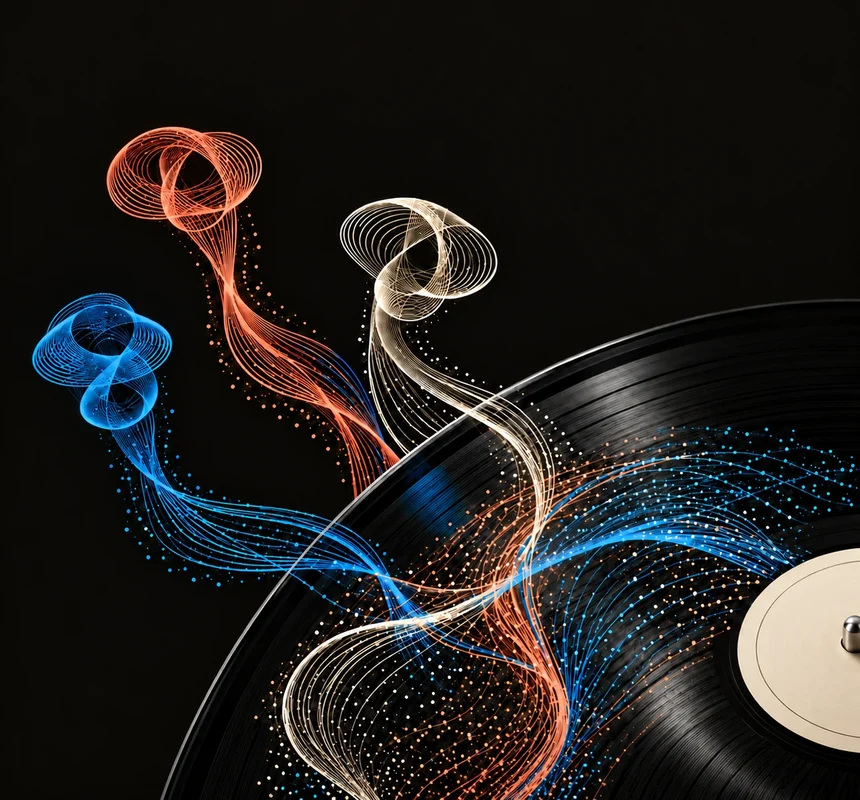
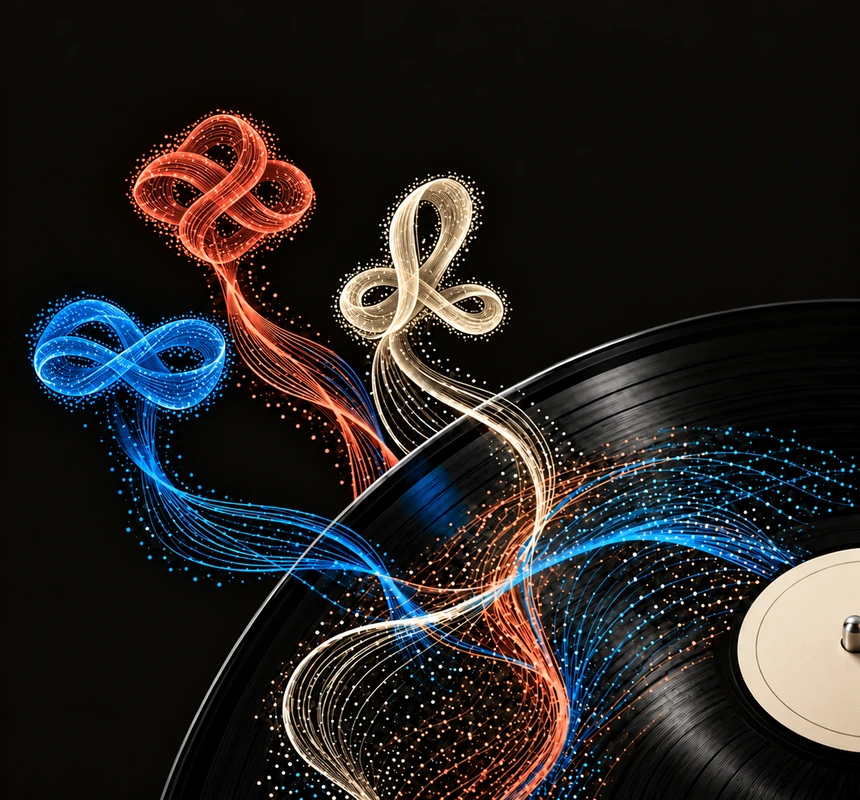
Apply supplied participant identicons and regenerate Home hero

diff --git a/src/App.jsx b/src/App.jsx
@@ -3,7 +3,7 @@ import React, { useEffect, useLayoutEffect, useMemo, useRef, useState } from 're
 import {demoScenario,demoStorageKey,demoProfile} from './demoSession.js'
 import VoicePreferenceChoices, {preferenceValues} from './VoicePreferenceChoices.jsx'
 import Icon from './Icons.jsx'
-import {HomeView,PartModules,MonitoringModule,MyVoiceIcon,SongArtwork,TurntableFrame,recruitmentPreviewLayers} from './IntegratedViews.jsx'
+import {HomeView,PartModules,MonitoringModule,ParticipantKnot,MyVoiceIcon,SongArtwork,TurntableFrame,recruitmentPreviewLayers} from './IntegratedViews.jsx'
 import {discoveryProjects,matchesGenre} from './discovery.js'
 import {PUBLIC_COMPLETIONS,publicResultIdFromNavigation} from './publicCompletions.js'
 import { PITCH_ANALYSIS_VERSION } from './pitch.js'
@@ -1374,7 +1374,7 @@ function Recorder({ go, submit, onRecordingStart, partId, projectTracks, layers,
       <span className="recording-clock" data-state={status} data-recording-entry>{currentPart.name} 녹음 · {status==='recording'?'REC':status==='paused'?'PAUSED':status==='review'?'REVIEW':'READY'} · {fmt(seconds)}{entryPrompt&&` · ${entryPrompt}`}</span>
       <section className="guide-panel v2-monitoring" aria-label="듣기 전용 Guide">
         <div className="v2-monitoring-row"><MonitoringModule guide title="Guide" role="반주" checked={guides.backing} onChange={e=>setGuides({...guides,backing:e.target.checked})}/>
-        {guideTracks.map(track=>{const part=parts.find(item=>item.id===track.partId),index=parts.findIndex(item=>item.id===track.partId);return <MonitoringModule key={track.id} title={track.participant} role={part.name} color={part.color} checked={Boolean(guides.parts[index])} onChange={e=>{const nextParts=[...guides.parts];nextParts[index]=e.target.checked;setGuides({...guides,parts:nextParts})}}/>})}</div>
+        {guideTracks.map(track=>{const part=parts.find(item=>item.id===track.partId),index=parts.findIndex(item=>item.id===track.partId);return <MonitoringModule key={track.id} title={track.participant} participantId={track.participantId} role={part.name} color={part.color} checked={Boolean(guides.parts[index])} onChange={e=>{const nextParts=[...guides.parts];nextParts[index]=e.target.checked;setGuides({...guides,parts:nextParts})}}/>})}</div>
         <p className="guide-device-note">Guide는 듣기용입니다. 이어폰을 사용하면 내 입력만 선명하게 녹음할 수 있어요.</p>
       </section>
       <div className="recording-visual"><ResonanceRecord recordRef={project.voiceRecordRef} parts={parts} tracks={finalTracks} projectId={project.id} layers={status==='review'?reviewLayers:finalLayers} activePartIndex={currentIndex} state={status === 'recording' ? 'recording' : status==='paused'?'paused':'rest'} level={level} seed={project.seed} compact /><RecordingInflow active={status==='recording'} partIndex={0} level={level} seed={project.seed} waveformRef={waveformRef}/></div>
@@ -1463,7 +1463,7 @@ function CurrentMixPanel({ parts, projectTracks, project, mix, mixStatus, retryA
   const chooseTrack=id=>{setPlaying(false);setSelectedTrackId(id);window.setTimeout(()=>setPlaying(true),0)}
   if(detailMode)return <section className="detail-listening" aria-label="현재 Mix와 Track">
     <div className="detail-mix"><p>현재 MIX 듣기</p><Player figma splitTimeline metalControl source={selectedTrack?.url||preview?.url} durationHint={selectedTrack?.duration||preview?.duration} playing={playing} setPlaying={setPlaying}/>{selectedTrack&&<span className="listening-context"><button className="detail-mix-return" onClick={()=>{setPlaying(false);setSelectedTrackId(null)}}>현재 Mix로</button></span>}{!trackArray.length&&<small>아직 제출된 녹음이 없어요.</small>}{trackArray.length>0&&!selectedTracks.length&&!selectedTrack&&<small>들을 트랙을 하나 이상 선택해 주세요.</small>}</div>
-    <div className="detail-people"><p>참여한 멤버 {rows.filter(part=>part.participant).length}명</p><div className="detail-member-list">{rows.filter(part=>part.participant).map(part=>{const index=parts.findIndex(p=>p.id===part.id);return <div key={part.id} className="detail-member" data-part={part.id}><button className="detail-member-name" disabled={!part.participantId||part.participantId===CURRENT_USER_ID} onClick={()=>openVocalProfile(part.participantId)}><span className="detail-member-mark" style={{color:part.color}}>{part.participant.slice(0,1)}</span><span><strong>{part.participant}</strong><small>{part.name}</small>{projectTracks[part.id]&&<small>{fmt(projectTracks[part.id].duration)}</small>}</span></button>{projectTracks[part.id]&&<div className="detail-member-controls"><button className="row-track-play" aria-label={`${part.name} 개별 듣기`} onClick={()=>chooseTrack(part.id)}><Icon name={selectedTrackId===part.id&&playing?'pause':'play'} size={12}/></button><button className={`include-toggle ${included.parts[index]?'on':''}`} aria-label={`${part.name} Mix 포함`} aria-pressed={included.parts[index]} onClick={()=>{setPlaying(false);setSelectedTrackId(null);setIncluded(value=>{const next=[...value.parts];next[index]=!next[index];return {...value,parts:next}})}}><span/></button></div>}</div>})}</div></div>
+    <div className="detail-people"><p>참여한 멤버 {rows.filter(part=>part.participant).length}명</p><div className="detail-member-list">{rows.filter(part=>part.participant).map(part=>{const index=parts.findIndex(p=>p.id===part.id);return <div key={part.id} className="detail-member" data-part={part.id}><button className="detail-member-name" disabled={!part.participantId||part.participantId===CURRENT_USER_ID} onClick={()=>openVocalProfile(part.participantId)}><span className="detail-member-mark" style={{color:part.color}}><ParticipantKnot participantId={part.participantId} name={part.participant}/></span><span><strong>{part.participant}</strong><small>{part.name}</small>{projectTracks[part.id]&&<small>{fmt(projectTracks[part.id].duration)}</small>}</span></button>{projectTracks[part.id]&&<div className="detail-member-controls"><button className="row-track-play" aria-label={`${part.name} 개별 듣기`} onClick={()=>chooseTrack(part.id)}><Icon name={selectedTrackId===part.id&&playing?'pause':'play'} size={12}/></button><button className={`include-toggle ${included.parts[index]?'on':''}`} aria-label={`${part.name} Mix 포함`} aria-pressed={included.parts[index]} onClick={()=>{setPlaying(false);setSelectedTrackId(null);setIncluded(value=>{const next=[...value.parts];next[index]=!next[index];return {...value,parts:next}})}}><span/></button></div>}</div>})}</div></div>
     <div className="detail-open-parts"><p>모집 중인 파트</p><div>{rows.filter(part=>!part.participant&&['open','recruiting','ready'].includes(part.status)).map(part=>{const action=partAction?.(part)||{};return <div data-part={part.id} key={part.id}><button className={`row-action ${action.label==='선택됨'?'active':''}`} disabled={!action.action} aria-pressed={action.label==='선택됨'} onClick={action.action}><Icon name="plus" size={12}/><span>{part.name}</span></button></div>})}</div></div>
     {previewError&&<p role="alert">{previewError}</p>}
   </section>

diff --git a/src/IntegratedViews.jsx b/src/IntegratedViews.jsx
@@ -2,6 +2,18 @@ import React, {useEffect,useLayoutEffect,useRef,useState} from 'react'
 import Icon from './Icons.jsx'
 import {songArtwork} from './songArtwork.js'
 
+// Approved Figma display artwork; never persisted as a measured Voice Identity.
+const participantKnots = {
+  yoonseul: '/artwork/identicon-blue.png',
+  doyoon: '/artwork/identicon-coral.png',
+  jisun: '/artwork/identicon-cream.png'
+}
+
+export function ParticipantKnot({participantId,name}) {
+  const src=participantKnots[participantId]
+  return src?<img className="v2-participant-knot" data-artwork-kind="supplied-identicon" src={src} width="128" height="128" alt=""/>:name?.slice(0,1)
+}
+
 export function MyVoiceIcon() {
   return <span className="v2-profile-icon" aria-hidden="true"><img src="/artwork/profile-knot.webp" alt="" width="26" height="26"/></span>
 }
@@ -63,7 +75,7 @@ export function PartModules({parts,projectTracks,included,onToggle,onPlay,onPart
   return <div className="v2-part-modules" aria-label="파트별 참여 상태와 듣기">{parts.map((part,index)=>{
     const track=projectTracks[part.id],own=part.participantId===currentUserId
     const action=partAction?.(part)||{}
-    const identity=<><span className="v2-voice-slot" style={{color:part.color}} aria-hidden="true">{part.participant?part.participant.slice(0,1):<Icon name="plus" size={22}/>}</span><span className="v2-part-name-role"><strong>{own?'내 파트':part.participant||'OPEN'}</strong><span className="v2-part-role">{part.name}</span></span></>
+    const identity=<><span className="v2-voice-slot" style={{color:part.color}} aria-hidden="true">{part.participant?<ParticipantKnot participantId={part.participantId} name={part.participant}/>:<Icon name="plus" size={22}/>}</span><span className="v2-part-name-role"><strong>{own?'내 파트':part.participant||'OPEN'}</strong><span className="v2-part-role">{part.name}</span></span></>
     return <section className="v2-part-module" key={part.id} data-part={part.id}>
       {part.participantId&&!own?<button className="v2-part-identity v2-part-person" onClick={()=>onParticipant(part.participantId)} aria-label={part.participant+' 보컬 프로필'}>{identity}</button>:<div className="v2-part-identity">{identity}</div>}
       <div className="v2-part-channel"><small>{track?'제출됨':own?(hasDraft?'임시 보관':'녹음 대기'):part.invitationStatus==='sent'?'초대 대기':part.participant?'Track 대기':'모집 중'}</small>
@@ -72,8 +84,8 @@ export function PartModules({parts,projectTracks,included,onToggle,onPlay,onPart
   })}</div>
 }
 
-export function MonitoringModule({title,role,checked,onChange,guide=false,color}) {
-  return <label className="v2-monitor-module"><span className="v2-monitor-symbol" style={{color}} aria-hidden="true">{guide?<img src="/artwork/guide-keyboard.svg" alt="" width="46" height="32"/>:title.slice(0,1)}</span><span>{title}</span><small>{role}</small><span className="v2-toggle"><input type="checkbox" aria-label={guide?'Guide 반주':`${title} · ${role} 함께 듣기`} checked={checked} onChange={onChange}/><i/></span></label>
+export function MonitoringModule({title,participantId,role,checked,onChange,guide=false,color}) {
+  return <label className="v2-monitor-module"><span className="v2-monitor-symbol" style={{color}} aria-hidden="true">{guide?<img src="/artwork/guide-keyboard.svg" alt="" width="46" height="32"/>:<ParticipantKnot participantId={participantId} name={title}/>}</span><span>{title}</span><small>{role}</small><span className="v2-toggle"><input type="checkbox" aria-label={guide?'Guide 반주':`${title} · ${role} 함께 듣기`} checked={checked} onChange={onChange}/><i/></span></label>
 }
 
 export function HomeView({header,entries,songs,renderRecord,openSong,openProject,openSearch,openCreateProject,formatDuration}) {

diff --git a/src/integration-v2.css b/src/integration-v2.css
@@ -44,6 +44,9 @@
 /* Constrain legacy screen rules to their old layout; V2 uses one explicit grid column. */
 .workspace-v2-screen .title-row{min-height:0!important}.workspace-v2-screen .title-row h1{max-width:none}
 .v2-voice-slot,.v2-monitor-symbol{font-family:var(--font-interface)}
+.v2-voice-slot .v2-participant-knot{display:block;width:72.444px;height:40px;object-fit:contain}
+.recording-v2-screen .v2-monitor-symbol .v2-participant-knot{width:53.333px;height:40px;object-fit:contain}
+.detail-v2-screen .detail-member-mark .v2-participant-knot{display:block;width:30px;height:30px;object-fit:contain}
 .recording-v2-screen .topbar{min-height:24px;height:24px;padding-top:0}
 .recording-v2-screen>main{grid-template-rows:auto auto 190px 42px 230px auto;min-height:calc(100dvh - 24px);width:100%;max-width:430px;padding-top:0!important}
 .recording-v2-screen>main>*{grid-column:1;min-width:0}

diff --git a/public/artwork/README.md b/public/artwork/README.md
@@ -22,7 +22,7 @@
 - `guide-keyboard.svg`: exact 46×32 export of Figma `1448:32057` in Recording Monitoring / Guide `1466:32188`. Decorative keyboard for the real backing toggle; no audio or profile data is substituted.
 - `figma-toggle-{on,off}.svg`: exact 46×26 exports of IEUM/Current/Toggle variants `1238:2667` / `1238:2668`. Recording monitoring displays them at the original instance scale (33.12×18.72); native controlled checkboxes and full-card click targets remain functional. Plugin API exports were used because the temporary asset URL returned HTML.
 
-- `home-hero.webp`: user-supplied text-free line/particle illustration (`세 빛깔 실매듭의 비닐 궤적(2).png`). Promotional Home art only; never replaces live project/recording visuals.
+- `home-hero.webp`: Home hero regenerated with built-in imagegen on 2026-10-22 at the user's request. Keeps the supplied hero's vinyl/three-stream composition, with the approved blue infinity, coral interwoven knot and cream folded-loop identicons. 1300×1209 source, 860×800 WebP delivery. Promotional Home art only; never replaces live project/recording visuals.
 - `profile-knot.webp`: user-supplied blue knot (`청록빛 유동 매듭 추출본-2(1).png`), used as the approved decorative My Voice entry icon. It does not claim to be the current user’s measured/generated identity.
 - `cover-{pop,rnb,rock,electronic,folk,jazz}.webp`: original imagegen artwork, six separate genre treatments; existing composition retained and fictional titles removed with imagegen. WebP exports are resized for UI delivery. Not official recording artwork.
 
@@ -35,3 +35,9 @@ Never export a whole UI screenshot as artwork. Turntable housing and the dynamic
 
 - `figma-detail-harmony.png`: exact 382×130 read-only PNG export of Detail `1713:43334`. Preserves the source composition; explicitly labelled as a combination illustration, never a measured personal identity, Track result or computed matching score. Live Project Record and song cover remain data-driven. Source nodes were not modified.
 - `figma-guide-volume-thumb.png`: exact read-only PNG export of the 16px machined-metal handle `1732:43409` with its 20px effect bounds, used by the functional guide-vocal volume range control. Source nodes were not modified.
+
+- `identicon-{blue,coral,cream}.png`: exact 128×128 original image bytes read from current Figma image fills (no re-generation or recoloring). Blue `1622:41982` / hash `506245bd2769c71bca22ecf1ca1e829992feca02`; coral `I1571:41086;1622:41982` / `7fbe2e2f182e61c8060dbd8836f354226b341025`; cream `I1571:41087;1622:42228` / `72e466d8af3fb9f45939167b5071dbfd75c52642`. User explicitly requested these in place of 윤/도/J initials. Shared display component maps stable participant IDs yoonseul/doyoon/jisun consistently in Workspace, Recording and Detail; unassigned OPEN remains the plus symbol. These are approved display artwork, never persisted as a measured/generated Voice Identity or as Track/Record data. Figma and Notion sources were not modified.
+
+### Home hero imagegen prompt · 2026-10-22
+
+Use case: precise-object-edit. Asset type: IEUM mobile music collaboration Home hero artwork, text-free, opaque near-black background. Edit target image 1 is the existing hero. Images 2/3/4 are the EXACT approved blue/coral/cream voice identicon shape references, respectively. Replace the three floating knots in image 1 with those identicons: lower-left blue must be the horizontal infinity/figure-eight loop of image2, upper-left coral must be the rounded three-dimensional interwoven multi-lobed knot of image3, upper-middle cream must be the tall folded loop with two low side loops of image4. Preserve each reference's topology, repeated fine parallel curves and fine particle texture, and clear differences in their silhouettes. Preserve the original hero's composition, black vinyl record entering from lower-right, cream center label cropped by right edge, near-black warm background, and upper-right negative space. The three voice knots flow via continuous fine curves and particles down into the record grooves, same visual story and general relative positions as target image1. The lines and particles make the forms; no thick solid ribbons, no glass/jewels/chrome, no neon bloom, no star field. Keep understated blue, warm coral and ivory. Do not merely recolor the old knots: their SHAPES must change to match refs2-4. No text, letters, logo, interface, border, watermark or new objects. Keep approximately the original 1.075:1 width/height proportion, with sufficient air around the three distinct knots and the same copy-safe upper-right region. High quality crisp strands.
